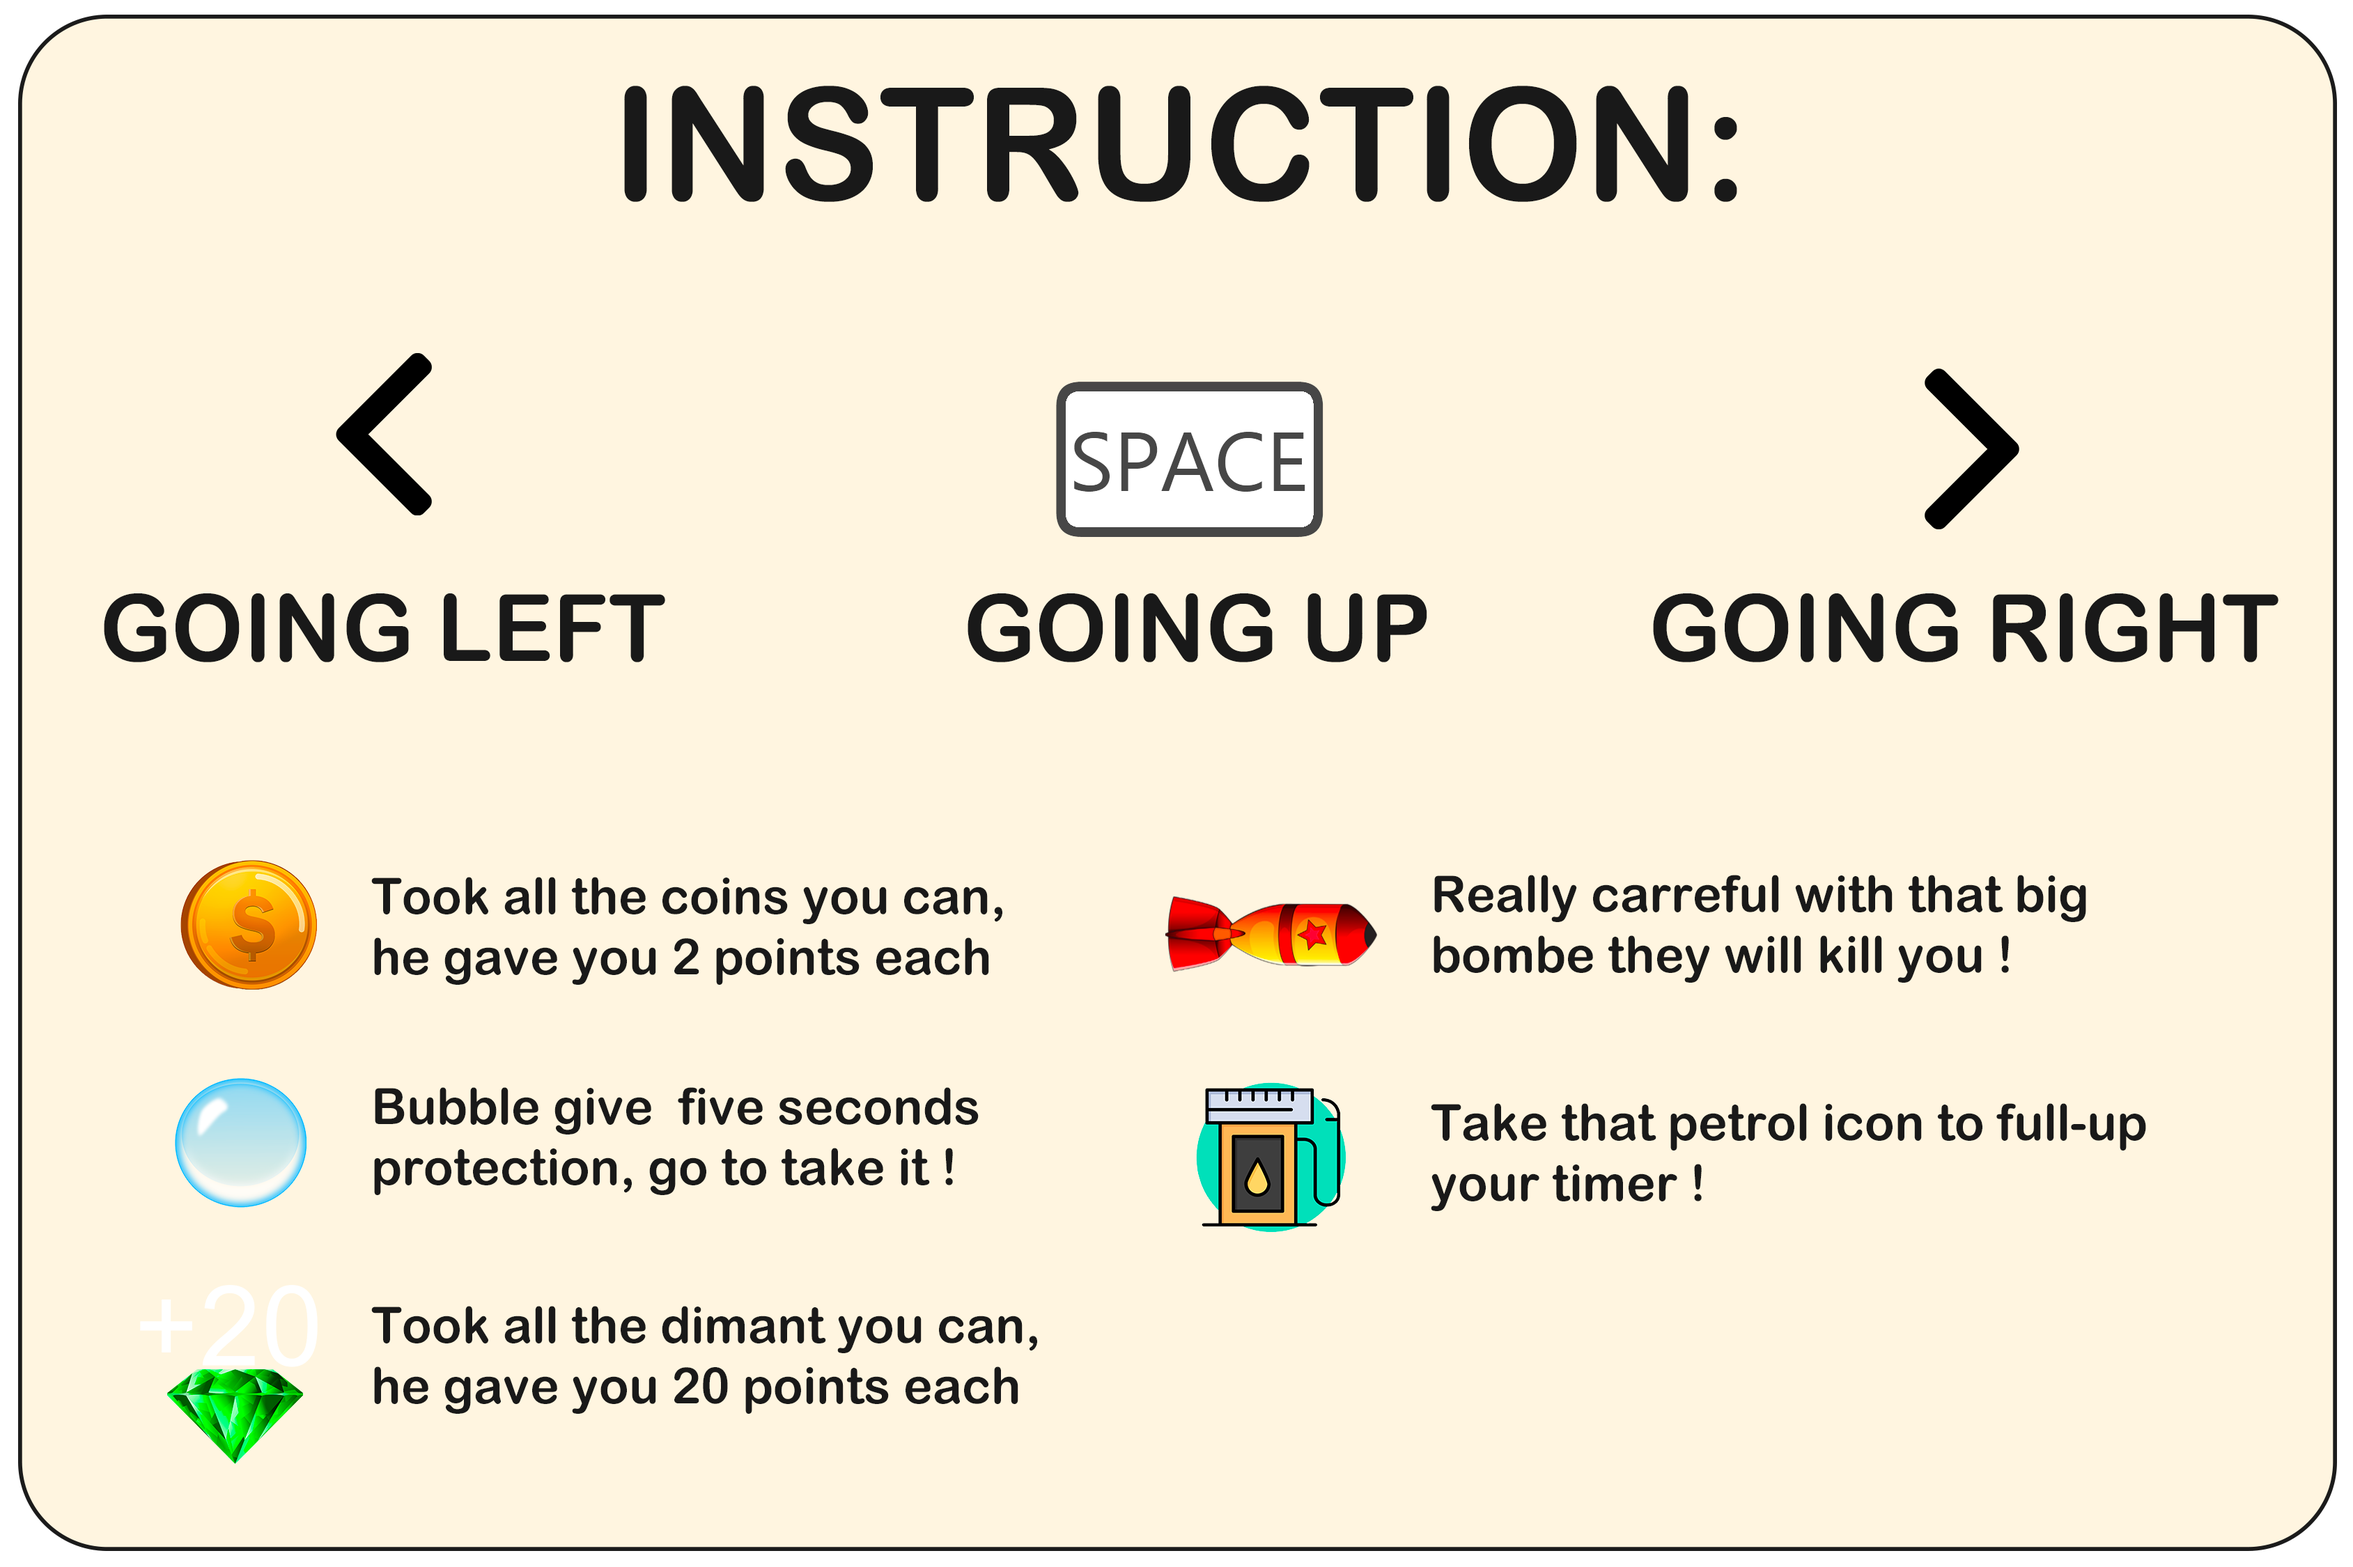
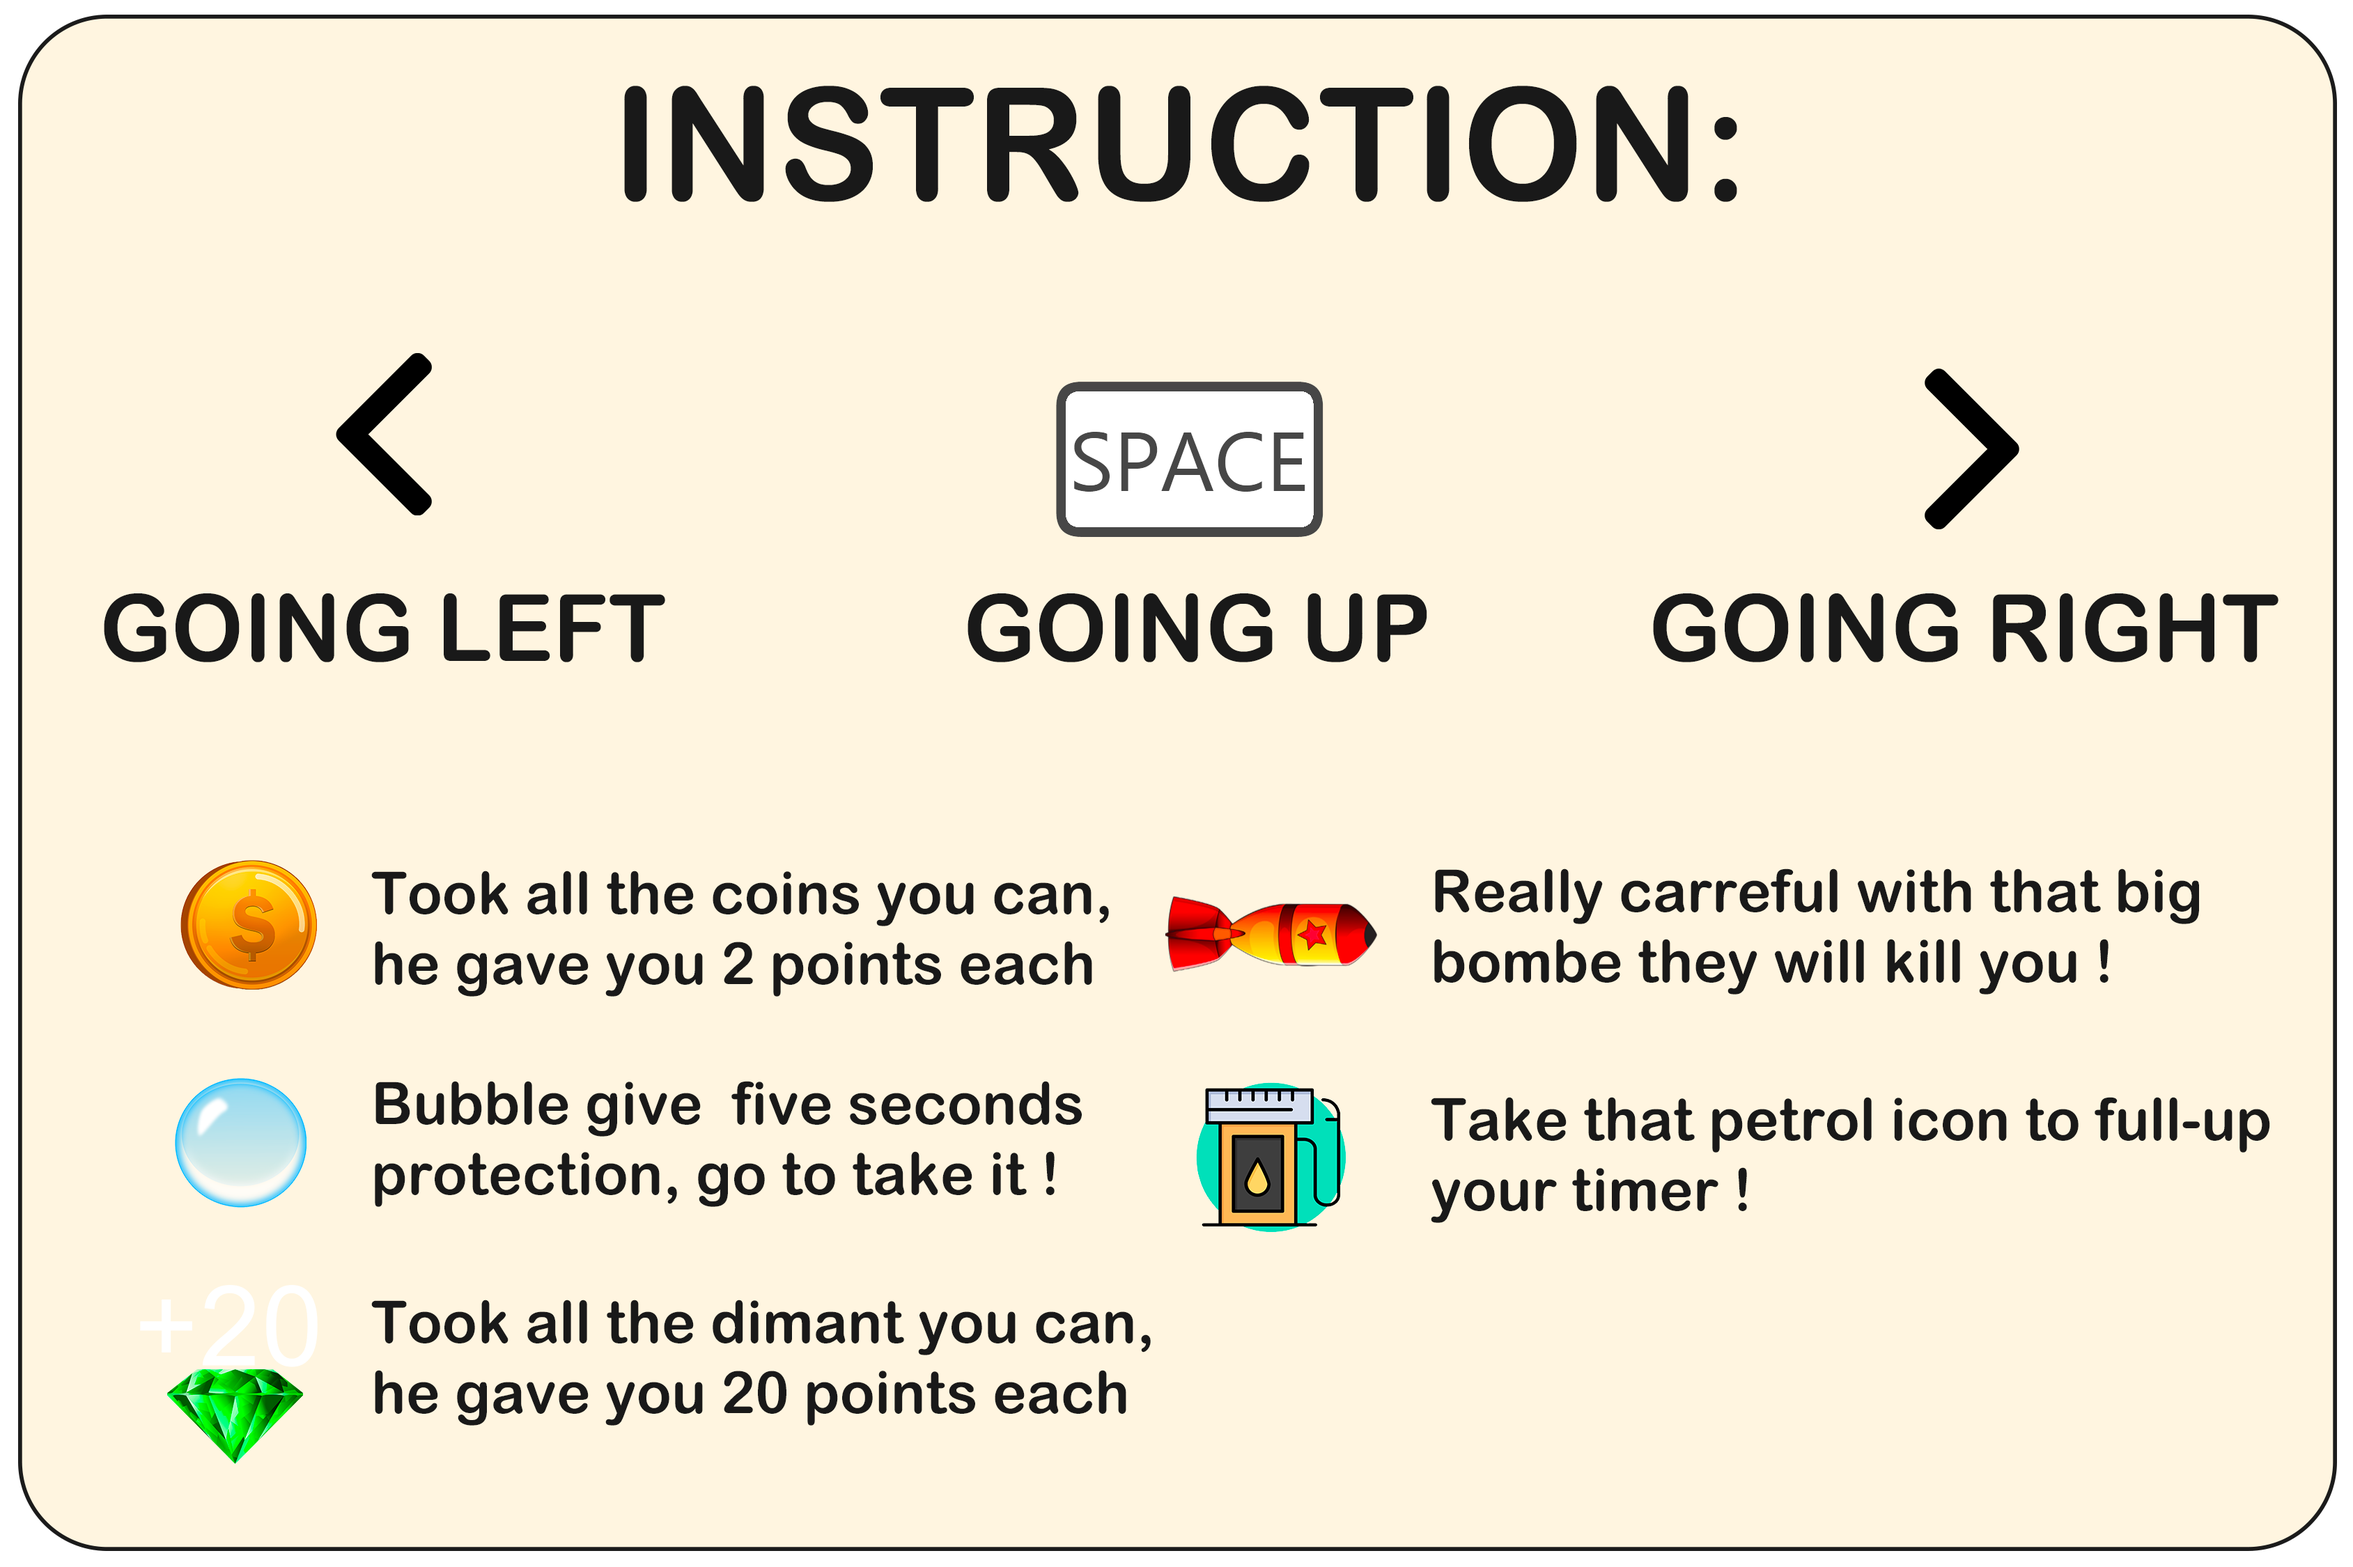
solved some bug

diff --git a/index.html b/index.html
@@ -13,7 +13,7 @@
     <div class="container">
         <!-- SPLASH SCREEN -->
         <div id="splash-screen" class="container">
-          <img src="./Images/jet-pack.png" width="50%" alt="logo">
+          <img src="./Images/jet-pack.png" width="800px" alt="logo">
 
           <div class="instructionContainer" > <img src="./Images/instruction.png" id="instructionImg"></div>
         <div id="start-btn"><img class="img-button" src="./Images/jet-pack-button-play.png" alt="button-start"></div>
@@ -30,13 +30,13 @@
 
         </div>
         <!-- GAME SCREEN -->
-        <canvas id="my-canvas" width="700px" height="900px"></canvas>
+        <canvas id="my-canvas" width="800px" height="850px"></canvas>
         <div class="blackScreen"></div>
         <div id="nivel2"><img src="./Images/nivel2.png"  id="nivel2img"></div>
         <div class="counter absolute "></div>
         <!-- GAME OVER SCREEN -->
         <div id="gameover-screen" class="container">
-          <img src="./Images/jet-pack-play-again.png" width="55%" alt="logo">
+          <img src="./Images/jet-pack-play-again.png" width="300px" alt="logo">
           <div id="restart-btn"><img class="img-button" src="./Images/jet-pack-button-play-again.png" alt="button-play-again"></div>
 
         </div>

diff --git a/style/style.css b/style/style.css
@@ -8,7 +8,8 @@ body {
     align-items: center;
 
 }
-h1{
+
+h1 {
     font-size: 3rem;
 }
 
@@ -30,7 +31,7 @@ h1{
 
 .container {
 
-    
+
     display: flex;
     flex-direction: column;
     justify-content: center;
@@ -39,14 +40,14 @@ h1{
 
 }
 
-.instructionContainer{
+.instructionContainer {
     padding-top: 40px;
-width: 30%;
+    width: 600px;
 
 }
 
-#instructionImg{ 
-width: 100%;
+#instructionImg {
+    width: 100%;
 }
 
 #my-canvas {
@@ -59,15 +60,15 @@ width: 100%;
 }
 
 
-.absolute{
+.absolute {
     position: absolute;
-    top :8%;
+    top: 8%;
     left: 50%;
-    
+
 }
 
-#nivel2{
-    
+#nivel2 {
+
     position: absolute;
     top: 26vh;
     left: 40vw;
@@ -80,15 +81,16 @@ width: 100%;
     cursor: pointer;
 
 }
-#nivel2img{
+
+#nivel2img {
     width: 100%;
 }
 
-.blackScreen{
+.blackScreen {
     width: 100vw;
     height: 100vh;
     position: absolute;
     background-color: black;
     opacity: .4;
-    display:none
+    display: none
 }

diff --git a/javascript/jet-pack.js b/javascript/jet-pack.js
@@ -12,8 +12,8 @@ class JetPack {
     this.img.src = "./Images/jet-pack-play-again.png";
     this.imgDied = new Image();
     this.imgDied.src = "./Images/jet-pack-died.png";
-    this.imgBublle =new Image()
-    this.imgBublle.src = "./Images/jet-pack-bubble.png"
+    this.imgBublle = new Image();
+    this.imgBublle.src = "./Images/jet-pack-bubble.png";
   }
 
   drawJet = () => {
@@ -27,9 +27,7 @@ class JetPack {
   };
 
   gravityJet = (arg) => {
-    
-        this.y += arg;
-      
+    this.y += arg;
   };
 
   movejetRight = () => {
@@ -43,12 +41,13 @@ class JetPack {
   // }
 
   jumpJet = () => {
-    this.y -= this.jumpspeed;
+    if (this.y > 0) {
+      this.y -= this.jumpspeed;
+    }
   };
 
   missileTouch = () => {
     this.moveSpeed = 0;
     this.jumpspeed = 0;
-    
   };
 }

diff --git a/javascript/game.js b/javascript/game.js
@@ -306,7 +306,7 @@ class Game {
         soundBubble.play();
         setTimeout(() => {
           this.protection = false;
-        }, 8000);
+        }, 6000);
       }
     });
   };

diff --git a/README.md b/README.md
@@ -1,11 +1,7 @@
 To Do List: 
 
-- explosion a impact bombe + son 
-- organiser les changement image explosion et boulier
+
 - ameliorer mouvement jet pack
 - timer bulle
-- instruction jeux
-- canvas heigth
-- hauteur max plafond
 - son button desactivation 
 
